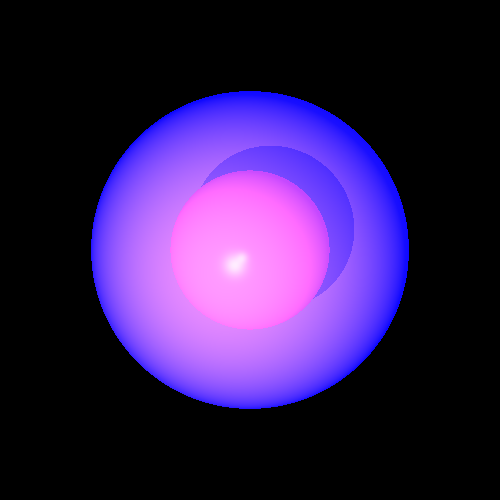
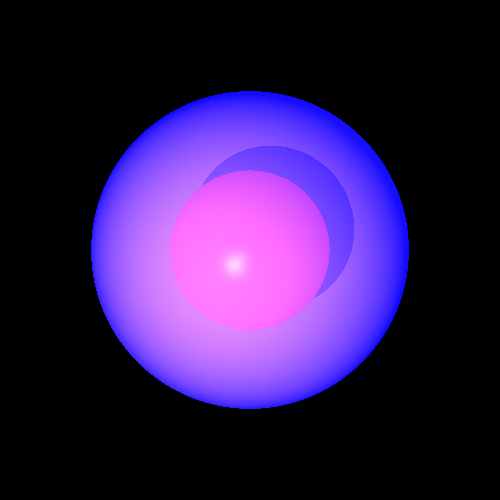
finish all stage7 wuthout commend

Changed region(s): [[0.39, 0.42, 0.57, 0.63], [0.57, 0.42, 0.6, 0.45]]

diff --git a/unittest/renderer/ReflectionRefractionTests.java b/unittest/renderer/ReflectionRefractionTests.java
@@ -107,4 +107,176 @@ class ReflectionRefractionTests {
          .renderImage() //
          .writeToImage("refractionShadow");
    }
+
+   @Test
+   void crystalConstellation() {
+      // הוספת גאומטריות מרובות עם חומרים שונים
+      scene.geometries.add(
+              // כדור קריסטל מרכזי שקוף עם השתקפויות
+              new Sphere(45d, new Point(0, 30, -80))
+                      .setEmission(new Color(20, 30, 50))
+                      .setMaterial(new Material()
+                              .setKD(0.1).setKS(0.8).setShininess(120)
+                              .setKT(0.85).setKR(0.15)),
+
+              // כדור רובי עם שקיפות חלקית וצבע אדום
+              new Sphere(25d, new Point(-60, 15, -45))
+                      .setEmission(new Color(40, 10, 10))
+                      .setMaterial(new Material()
+                              .setKD(0.3).setKS(0.7).setShininess(100)
+                              .setKT(0.7).setKR(0.3)),
+
+              // כדור אמרלד עם גוון ירוק
+              new Sphere(20d, new Point(70, 40, -30))
+                      .setEmission(new Color(10, 35, 15))
+                      .setMaterial(new Material()
+                              .setKD(0.25).setKS(0.75).setShininess(110)
+                              .setKT(0.75).setKR(0.25)),
+
+              // משולש מראה גדול ליצירת השתקפויות
+              new Triangle(
+                      new Point(-80, -20, -120),
+                      new Point(30, -20, -140),
+                      new Point(-25, 90, -130))
+                      .setMaterial(new Material()
+                              .setKD(0.1).setKS(0.9).setShininess(200)
+                              .setKR(0.9)),
+
+              // משולש ברונזה עם מאפיינים מתכתיים
+              new Triangle(
+                      new Point(40, -30, -100),
+                      new Point(120, -30, -110),
+                      new Point(80, 50, -105))
+                      .setEmission(new Color(30, 20, 10))
+                      .setMaterial(new Material()
+                              .setKD(0.4).setKS(0.6).setShininess(80)
+                              .setKR(0.6)),
+
+              // משולש זכוכית שקוף
+              new Triangle(
+                      new Point(-40, 60, -60),
+                      new Point(-10, 60, -70),
+                      new Point(-25, 85, -65))
+                      .setMaterial(new Material()
+                              .setKD(0.05).setKS(0.95).setShininess(150)
+                              .setKT(0.8).setKR(0.2)),
+
+              // מישור רצפה אבן עם השתקפויות קלות
+              new Plane(new Point(0, -50, 0), new Vector(0, 1, 0))
+                      .setEmission(new Color(15, 15, 12))
+                      .setMaterial(new Material()
+                              .setKD(0.6).setKS(0.4).setShininess(25)
+                              .setKR(0.15)),
+
+              // מישור קיר מראה אנכי
+              new Plane(new Point(-150, 0, 0), new Vector(1, 0, 0))
+                      .setMaterial(new Material()
+                              .setKD(0.05).setKS(0.95).setShininess(180)
+                              .setKR(0.85))
+      );
+
+      // תאורת סביבה עדינה
+      scene.setAmbientLight(new AmbientLight(new Color(8, 8, 12)));
+
+      // מקורות אור מרובים עם הנחתה ריאליסטית
+      scene.light.add(
+              new SpotLight(
+                      new Color(800, 600, 400),
+                      new Point(-80, 120, 100),
+                      new Vector(1, -2, -3))
+                      .setKl(0.0001).setKq(0.00005)
+      );
+
+      scene.light.add(
+              new PointLight(
+                      new Color(400, 500, 700),
+                      new Point(100, 60, 50))
+                      .setKl(0.00008).setKq(0.00003)
+      );
+
+      scene.light.add(
+              new DirectionalLight(
+                      new Color(50, 60, 80),
+                      new Vector(0.3, -0.5, -1))
+      );
+      // הגדרת מצלמה לתצוגה אופטימלית
+      cameraBuilder
+              .setLocation(new Point(50, 80, 200))
+              .setDirection(new Point(0, 20, -60), Vector.AXIS_Y)
+              .setVpDistance(180)
+              .setVpSize(220, 220)
+              .setResolution(800, 800)
+              .build()
+              .renderImage()
+              .writeToImage("crystalConstellation");
+   }
+   @Test
+   void crystalPrismReflections() {
+      // Set up a dark background with subtle ambient lighting
+      scene.setBackground(new Color(5, 5, 15));
+      scene.setAmbientLight(new AmbientLight(new Color(20, 15, 25)));
+
+      // Create a visually stunning scene with multiple geometries
+      scene.geometries.add(
+              // Large triangular prism - pink/purple with light emission and transparency
+              new Triangle(new Point(-150, -120, -150), new Point(150, -120, -150), new Point(0, 120, -50))
+                      .setEmission(new Color(180, 80, 190))
+                      .setMaterial(new Material().setKD(0.1).setKS(0.9).setShininess(100).setKT(0.4).setKR(0.1)),
+
+              // Second triangle creating the prism effect
+              new Triangle(new Point(-150, -120, -250), new Point(150, -120, -250), new Point(0, 120, -150))
+                      .setEmission(new Color(120, 40, 160))
+                      .setMaterial(new Material().setKD(0.1).setKS(0.9).setShininess(100).setKT(0.5).setKR(0.1)),
+
+              // Floor triangle with reflective properties
+              new Triangle(new Point(-200, -120, -300), new Point(200, -120, -50), new Point(-200, -120, -50))
+                      .setMaterial(new Material().setKD(0.5).setKS(0.5).setShininess(80).setKR(0.3)),
+
+              // Clear transparent sphere with high refraction
+              new Sphere(40d, new Point(-60, -40, -100))
+                      .setMaterial(new Material().setKD(0.1).setKS(0.9).setShininess(100).setKT(0.85).setKR(0.15)),
+
+              // Green sphere with partial transparency
+              new Sphere(35d, new Point(70, -40, -80))
+                      .setEmission(new Color(GREEN))
+                      .setMaterial(new Material().setKD(0.2).setKS(0.8).setShininess(80).setKT(0.5).setKR(0.2)),
+
+              // Small glowing sphere as a light source representation
+              new Sphere(15d, new Point(0, 80, -90))
+                      .setEmission(new Color(WHITE).scale(2))
+                      .setMaterial(new Material().setKD(0.1).setKS(0.9).setShininess(300).setKR(0.1)),
+
+              // Background plane with slight reflection
+              new Plane(new Point(0, 0, -300), new Vector(0, 0, 1))
+                      .setMaterial(new Material().setKD(0.6).setKS(0.4).setShininess(40).setKR(0.1)));
+
+      // Add multiple light sources with realistic attenuation for dramatic lighting
+      // מקור אור ראשי - אור חם
+      scene.light.add(
+              new PointLight(new Color(800, 500, 500), new Point(-50, 100, 50))
+                      .setKl(0.0001).setKq(0.00005)
+      );
+
+// מקור אור משני - אור קר לניגודיות
+      scene.light.add(
+              new SpotLight(new Color(300, 300, 500), new Point(100, 50, 100), new Vector(-1, -0.5, -1))
+                      .setKl(0.0001).setKq(0.00007)
+      );
+
+// אור כיווני להדגשת אפקט פריזמה
+      scene.light.add(
+              new DirectionalLight(new Color(100, 60, 120), new Vector(0.5, -0.5, -0.5))
+      );
+
+      // Position camera to capture all optical effects
+      cameraBuilder
+              .setLocation(new Point(0, 0, 1000))
+              .setDirection(new Point(0, 0, -100), new Vector(0, 1, 0))
+              .setVpDistance(1000).setVpSize(200, 200)
+              .setResolution(800, 800)
+              .build()
+              .renderImage()
+              .writeToImage("crystalPrismReflections");
+   }
+
 }

diff --git a/src/renderer/SimpleRayTracer.java b/src/renderer/SimpleRayTracer.java
@@ -107,6 +107,7 @@ public class SimpleRayTracer extends RayTracerBase {
      * @param intersection the intersection object
      * @return the local lighting color contribution
      */
+
     private Color calcColorLocalEffects(Intersection intersection) {
         if (intersection == null) {
             return scene.backgroundColor;
@@ -114,20 +115,28 @@ public class SimpleRayTracer extends RayTracerBase {
 
         Color color = intersection.geometry.getEmission();
 
-
         for (LightSource lightSource : scene.light) {
-            {
-
-                if (!setLightSource(intersection, lightSource)||!unshaded(intersection,lightSource)) {
-                   continue;
-                }
-
-                Color iL = lightSource.getIntensity(intersection.point);
-                color = color.add(iL.scale(calcDiffusive(intersection))).add(iL.scale(calcSpecular(intersection)));
+            if (!setLightSource(intersection, lightSource)) {
+                continue;
             }
+
+            // שקיפות חלקית – מחשבת צל רך
+            Double3 ktr = transparency(intersection);
+            if (ktr.lowerThan(MIN_CALC_COLOR_K)) {
+                continue; // חסימה כמעט מלאה – מדלגים על האור
+            }
+
+            // מחשבים את עוצמת האור בנקודה – לאחר השפעת השקיפות
+            Color iL = lightSource.getIntensity(intersection.point).scale(ktr);
+
+            // תאורה דיפוזית + מבריקה
+            color = color.add(iL.scale(calcDiffusive(intersection)))
+                    .add(iL.scale(calcSpecular(intersection)));
         }
+
         return color;
     }
+
 
     /**
      * Calculates the specular component of the light at the intersection point.
@@ -190,9 +199,71 @@ public class SimpleRayTracer extends RayTracerBase {
         return true;
     }
 
+    private Double3 transparency(Intersection intersection) {
+        // שליפת מקור האור מתוך ה-intersection
+        LightSource lightSource = intersection.lightSource;
+        if (lightSource == null) {
+            return Double3.ONE; // אין מקור אור, אין הצללה
+        }
+
+        // כיוון מקרן הצל – מהנקודה אל מקור האור (בכיוון ההפוך)
+        Vector lightDirection = lightSource.getL(intersection.point).scale(-1);
+
+        // הזזה קלה מנקודת החיתוך כדי למנוע חיתוך עצמי
+        Vector delta = intersection.normal.scale(intersection.scaleNL < 0 ? DELTA : -DELTA);
+        Point origin = intersection.point.add(delta);
+
+        // יצירת קרן צל
+        Ray shadowRay = new Ray(origin, lightDirection);
+
+        // מרחק לנקודת האור
+        double lightDistance = lightSource.getDistance(intersection.point);
+
+        // חישוב החיתוכים של קרן הצל עם הסצנה
+        List<Intersection> shadowIntersections = scene.geometries.calculateIntersectionsHelper(shadowRay);
+
+        // שקיפות מצטברת – מתחילה כ־1 (אין חסימה)
+        Double3 ktr = Double3.ONE;
+
+        // אם אין חיתוכים – אין חסימה כלל
+        if (shadowIntersections == null) {
+            return ktr;
+        }
+
+        // מעבר על כל החיתוכים
+        for (Intersection shadowIntersection : shadowIntersections) {
+            // מדלגים על אותו גוף
+            if (shadowIntersection.geometry == intersection.geometry) {
+                continue;
+            }
+
+            // חישוב מרחק בין מקור קרן הצל לנקודת החיתוך
+            double distance = shadowIntersection.point.distance(origin);
+
+            // אם הגוף בנתיב הקרן לפני מקור האור – הוא חוסם חלקית
+            if (distance < lightDistance) {
+                // מכפילים את השקיפות המצטברת בשקיפות הגוף
+                ktr = ktr.product(shadowIntersection.geometry.getMaterial().KT);
+
+                // אם השקיפות נמוכה מאוד – עצירה מוקדמת
+                if (ktr.lowerThan(MIN_CALC_COLOR_K)) {
+                    return Double3.ZERO;
+                }
+            }
+        }
+
+        // מחזירים את שקיפות הקרן – מתארת צל חלקי
+        return ktr;
+    }
 
 
-   private Color calcColor (Intersection intersection, int level, Double3 k) {
+
+
+
+
+
+
+    private Color calcColor (Intersection intersection, int level, Double3 k) {
 
        Color color = calcColorLocalEffects(intersection);
         if (level == 1 || k.lowerThan(MIN_CALC_COLOR_K)) {
